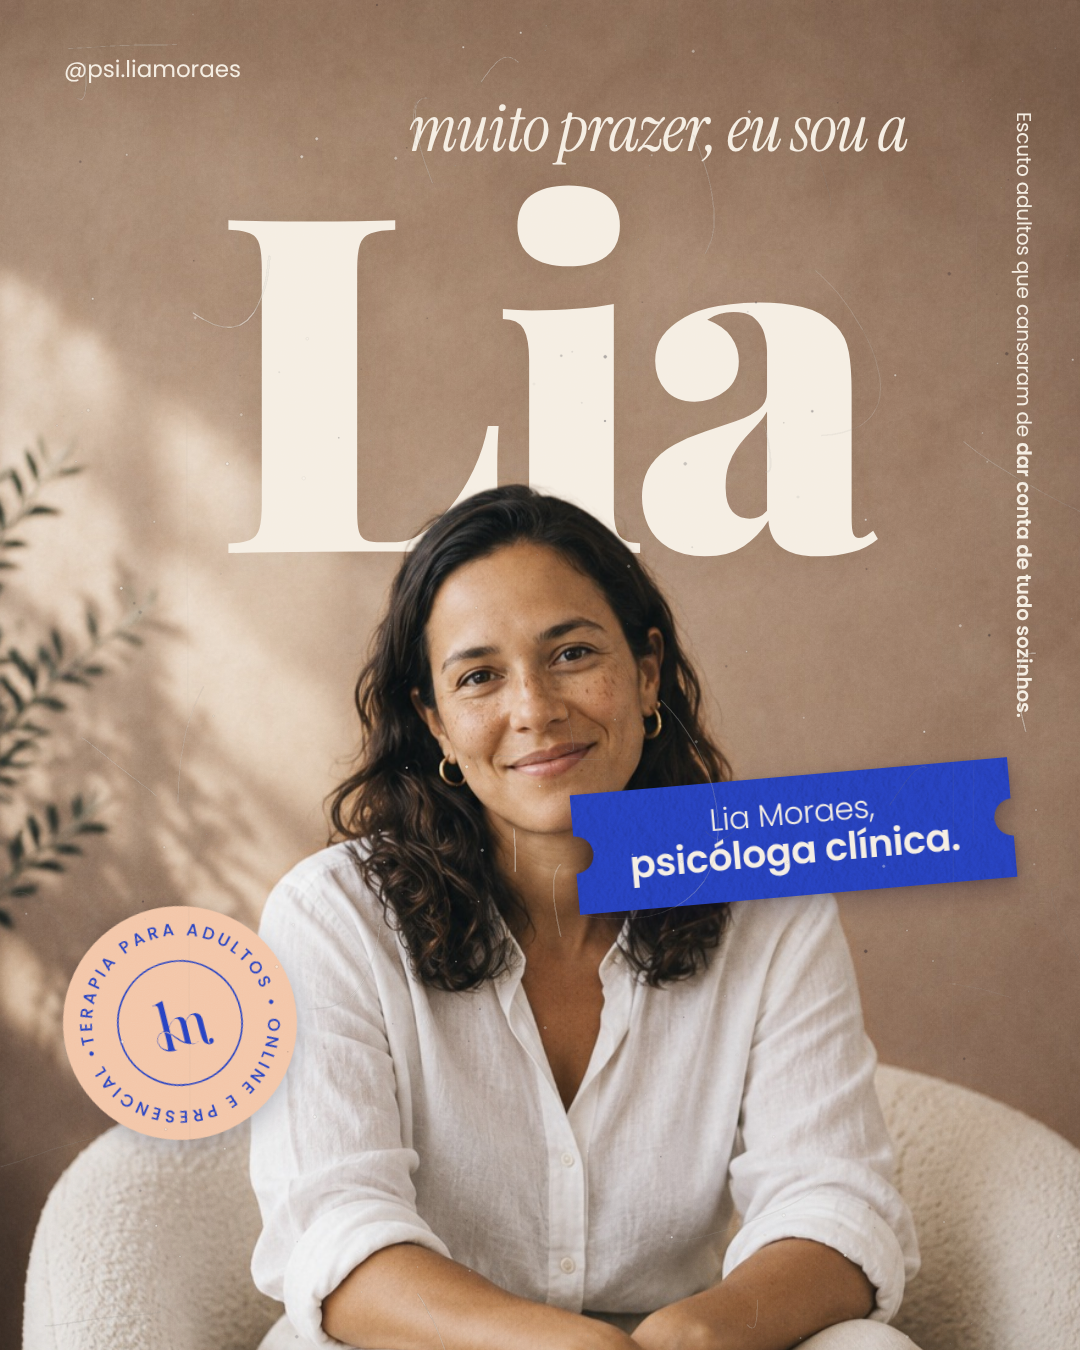
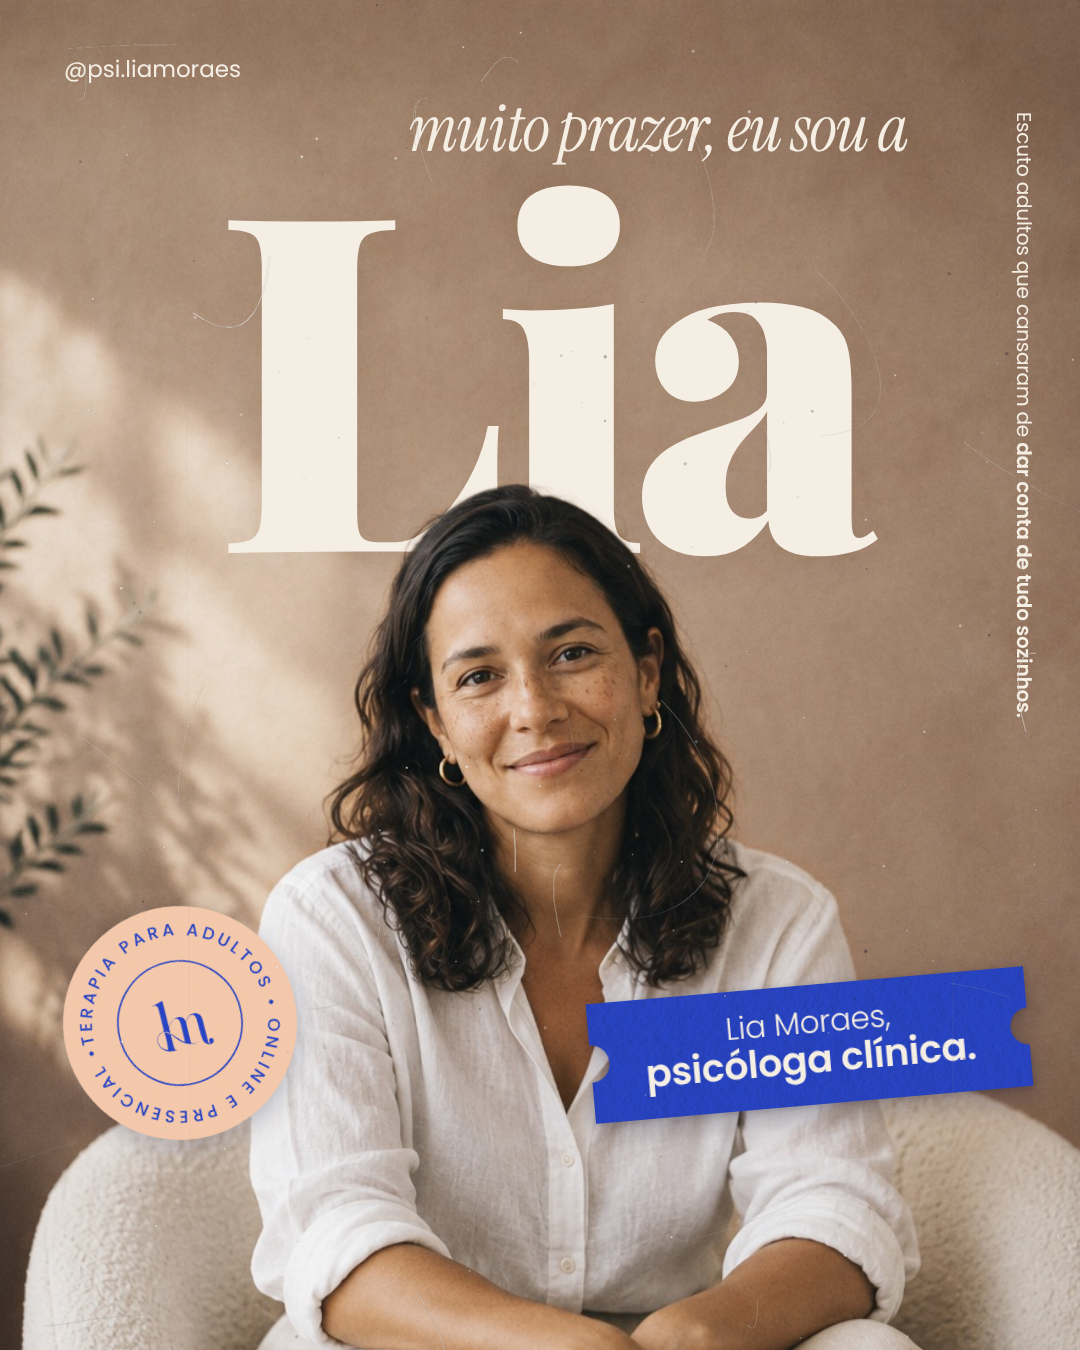
Lia Moraes: post 1 com o bilhete mais baixo, fora do rosto
Claude-Session: https://claude.ai/code/session_01CmCiK8Gv7bd1khyaxwEQLc

Changed region(s): [[0.5194, 0.56, 0.9472, 0.6844], [0.5194, 0.7156, 0.9778, 0.84]]

diff --git a/psicologa-lia-moraes/projeto/posts/posts-v5.html b/psicologa-lia-moraes/projeto/posts/posts-v5.html
@@ -112,7 +112,7 @@ body{background:#777;padding:20px;display:flex;gap:20px;flex-wrap:wrap}
   </div>
   <!-- a cabeça da Lia passa na frente do nome -->
   <img class="abs" src="../ia/filme-lia/poltrona-a-recorte.png" style="left:-171px;top:0;width:1386px;z-index:3">
-  <div class="abs" style="left:574px;top:776px;z-index:6;transform:rotate(-5deg);filter:drop-shadow(0 10px 14px rgba(20,15,40,.28)) drop-shadow(0 2px 3px rgba(20,15,40,.2))">
+  <div class="abs" style="left:590px;top:985px;z-index:6;transform:rotate(-5deg);filter:drop-shadow(0 10px 14px rgba(20,15,40,.28)) drop-shadow(0 2px 3px rgba(20,15,40,.2))">
     <div class="bilhete-recortado" style="padding:20px 54px 24px;text-align:center">
       <div class="js" style="font-size:31px;font-weight:300;line-height:1.1">Lia Moraes,</div>
       <div class="js" style="font-size:38px;font-weight:600;line-height:1.1">psicóloga clínica.</div>
